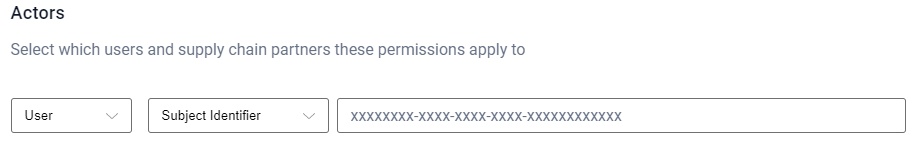
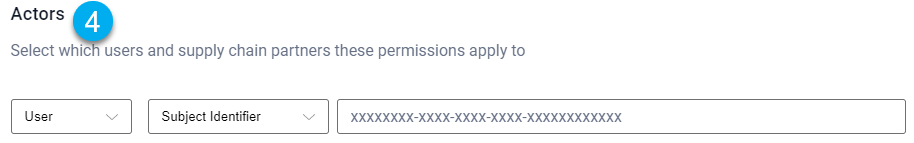
Dev/henry/10036 memberships update (#920)
* re-write IAM docs page

re AB#10036

* update app registrations docs

re AB#10036

* finishing touches for first draft

re AB#10036

* fixup! finishing touches for first draft

* Update content/developers/api-reference/members-api/index.md

* Update content/developers/api-reference/members-api/index.md

* Update content/developers/api-reference/members-api/index.md

* Updated images with numbered steps (1)

---------

diff --git a/content/platform/administration/identity-and-access-management/index.md b/content/platform/administration/identity-and-access-management/index.md
@@ -21,32 +21,37 @@ Each DataTrails Tenancy represents an organization, and each DataTrails account 
 There may be multiple accounts within a Tenancy if there are several members within an organization.
 Additionally, an individual user can be part of multiple Tenancies.
 
-### How do I add users to my organization?
+### Managing Users in your Tenant
 
-DataTrails Invites make it easy to add users to your tenancy.
+You can manage the users in your tenant from the 'Users' tab on the 'Settings' page (accessed from
+the sidebar.)
 
-As an [administrator](/platform/overview/core-concepts/#tenancies), create an invite and send it to the email address of the user you wish to add.
+{{< img src="Settings.png" alt="Rectangle" caption="<em>Select 'Settings > Users'</em>" class="border-0" >}}
 
-When the invitee signs up for their DataTrails account using the invited email address, they will be automatically added to your Tenancy.
+Here you'll find two panels:
+- Manage Users: 
+  - Manage the roles of existing users
+  - Deactivate users who should no longer have access
+  - Re-activate users to grant them access again
+- Manage Invites:
+  - Invite new users to your tenant via email
+  - Delete invites you no longer want to be redeemed
 
-{{< tabs name="invite_user_IAM" >}}
-{{{< tab name="UI" >}}
-On the Sidebar, select `Settings`.
-{{< img src="Settings.png" alt="Rectangle" caption="<em>Select 'Settings'</em>" class="border-0" >}}
+Lets walk through those functions now!
 
-Choose the `USERS` tab, then click `INVITE NEW USER`.
-{{< img src="InviteButton.png" alt="Rectangle" caption="<em>Invite New User</em>" class="border-0" >}}
+#### How do I add users to my organization?
+You add users to your organization by inviting them via email. This is only possible for administrators, 
+i.e. users with the 'Owner' role. Click the 'Invite User' button to open
+the invite window. Here you can enter the email address of the invitee, and if desired, customise
+a message to be shown in the email.
 
-Fill in the desired email and custom message. To finish, select `SEND INVITE`.
-{{< img src="InviteForm.png" alt="Rectangle" caption="<em>Enter Desired Details</em>" class="border-0" >}}
+{{< img src="InviteUser.png" alt="Rectangle" caption="<em>Send an Invite</em>" class="border-0" >}}
 
-{{< /tab >}}
-{{< tab name="YAML" >}}
-This action is not yet available in the YAML Runner. Check out our UI or curl command options!
-{{< /tab >}}
-{{< tab name="CURL" >}}
-Fill in your desired details and run the command to send the invite.
+Once the user recieves and redeems this email (using the email address to which it was sent) they
+will show up in this list and can be managed.
 
+{{< note >}}
+**Note:** Inviting users can be accomplished with the REST API too:
 ```bash
 curl -v -X POST \
     -H "@$HOME/.datatrails/bearer-token.txt" \
@@ -55,9 +60,41 @@ curl -v -X POST \
     "https://app.datatrails.ai/archivist/iam/v1/invites"
 ```
 
-See instructions for [creating your `BEARER_TOKEN_FILE`](/developers/developer-patterns/getting-access-tokens-using-app-registrations/) here.
-{{< /tab >}}
-{{< /tabs >}}
+See instructions for [creating your `BEARER_TOKEN_FILE`](/developers/developer-patterns/getting-access-tokens-using-app-registrations/).
+{{< /note >}}
+
+#### How do I delete an outstanding invite?
+Once accepted by an invitee, invites are automatically deleted. However, if you wish to delete an 
+outstanding invite, follow these steps:
+
+1. Click the trash icon in the row of the invite you wish to delete
+{{< img src="ManageInvites.png" alt="Rectangle" caption="<em>Managing invites</em>" class="border-0" >}}
+2. Confirm that you want to delete the invite in question
+{{< img src="DeleteInvite.png" alt="Rectangle" caption="<em>Deleting an invite</em>" class="border-0" >}}
+
+#### How do I modify a user's access to my tenant?
+There are two ways to modify a user's access to your tenant: Modify their roles or wether they are
+active. You can modify a user by clicking their row in the 'Manage Users' table.
+
+Note:
+- You cannot deactivate or demote yourself
+- In order to manage deactivated users, tick the 'Show Deactivated' checkbox in the top-right
+
+1. Click the user's row in the table
+2. The following pop-up will appear
+{{< img src="ManageUser.png" alt="Rectangle" caption="<em>Managing a user</em>" class="border-0" >}}
+3. To deactivate the user, uncheck the 'Active' checkbox. This will prevent this user
+   from any subsequent logins into the system.
+   {{< note >}}
+   **Note:** De-activating a user removes all roles
+   {{< /note >}}
+4. To give this user the 'Owner' role, check the 'Owner' checkbox. This role makes the user an 
+   administrator, giving them the ability to perform any action within the system and see all data.
+
+To re-activate a user, you'll need to check the 'Show Deactivated' checkbox in the top-right corner
+and then follow the same steps as for deactivating a user, but checking the 'Active' checkbox.
+{{< img src="ManageDeactivatedUsers.png" alt="Rectangle" caption="<em>Managing all users</em>" class="border-0" >}}
+
 
 ### Can I name my tenancy?
 
@@ -65,12 +102,9 @@ See instructions for [creating your `BEARER_TOKEN_FILE`](/developers/developer-p
 
 There are two ways to name your DataTrails Tenancy. The first way is to add a `Tenant Display Name`. This name will be displayed only within your own Tenancy, and will not be visible to outside organizations. The display name makes it easy to identify which Tenancy you're currently working in and to switch between Tenancies if you are part of multiple Tenancies.
 
-To set your `Tenant Display Name`:
-
-1. On the Sidebar, select `Settings`
-{{< img src="Settings.png" alt="Rectangle" caption="<em>Select 'Settings'</em>" class="border-0" >}}
-1. Add your desired name, then click `CHANGE DISPLAY NAME`
-{{< img src="TenantDisplay.png" alt="Rectangle" caption="<em>Change Display Name</em>" class="border-0" >}}
+To set your `Tenant Display Name`, navigate to 'Settings' from the sidebar and ensure you're on the 
+'General' tab. Add your desired name, then click `Change Display Name`.
+{{< img src="TenantName.png" alt="Rectangle" caption="<em>Change Display Name</em>" class="border-0" >}}
 
 #### Verified Domain
 

diff --git a/content/developers/developer-patterns/getting-access-tokens-using-app-registrations/index.md b/content/developers/developer-patterns/getting-access-tokens-using-app-registrations/index.md
@@ -16,9 +16,12 @@ aliases:
   - /docs/rkvst-basics/getting-access-tokens-using-app-registrations/
 ---
 
-Non-interactive access to the DataTrails platform is managed by creating `Integrations` with either a Custom Integration or one of the built-in Integrations. This is done using either the `Settings` or `Integrations` menus in the DataTrails UI or by using the App Registrations API directly.
+Non-interactive access to the DataTrails platform is managed by creating `Integrations` with either a Custom Integration or one of the built-in Integrations. This is done from the `Integrations` page in the DataTrails UI (reachable
+from the `Settings` page or the `Integrations` shortcut in the sidebar.) You can also do this via 
+the App Registrations REST API.
+
 {{< note >}}
-**Note:** App Registration is the old name for a Custom Integration.
+**Note:** App Registration is the internal name for a Custom Integration.
 {{< /note >}}
 
 `Custom Integrations` have a `CLIENT_ID` and a `SECRET`, these are used to authenticate with DataTrails IAM endpoints using [JSON Web Tokens](https://jwt.io/introduction/) (JWT).
@@ -37,7 +40,7 @@ The high level steps are:
 If you have already saved a `CLIENT_ID` and a `SECRET`, with the correct [permissions applied](#grant-permissions-to-custom-integration), skip to [Getting a Token With the Custom Integration](#getting-a-token-with-the-custom-integration)
 
 {{< note >}}
-**Note:** Creating App Registrations requires Tenancy **Administrator** privileges.  
+**Note:** Creating App Registrations requires **Owner** privileges.  
 If `Settings` or `Integrations` does not appear in the navigation, see your DataTrails Administrator for access.
 {{< /note >}}
 
@@ -45,10 +48,10 @@ If `Settings` or `Integrations` does not appear in the navigation, see your Data
 
 1. As an Administrator, open the <a href="https://app.datatrails.ai/" target="_blank">DataTrails App</a>
 1. Navigate to `Integrations` on the sidebar
-1. This opens `Settings` with the `Integrations` tab automatically selected
-  {{< img src="IntegrationsTab.png" alt="Rectangle" caption="<em>Navigate to Settings, then Integration</em>" class="border-0" >}}
+1. This opens the `Integrations` tab
 1. Click the `Custom` box to create a Custom Integration
-1. Enter any `Display Name` you'd like
+  {{< img src="IntegrationsTab.png" alt="Rectangle" caption="<em>Navigate to Settings, then Integration</em>" class="border-0" >}}
+1. Enter a `Display Name` to help you identify this Custom Integration in future
   {{< img src="Confirm.png" alt="Rectangle" caption="<em>Completed Web Registration</em>" class="border-0" >}}
   {{< note >}}
   **Note:** Optionally add any `Custom claims` at this step by clicking the `+ Add` button.<br>In this context, claims are pieces of information that are asserted in a JSON Web Token (JWT). *Registered* claims are name/value pairs that are defined by the JWT standard, *Custom* claims are not defined and can have any name/value combination.
@@ -57,7 +60,8 @@ If `Settings` or `Integrations` does not appear in the navigation, see your Data
   
   See [here](https://auth0.com/docs/security/tokens/json-web-tokens/json-web-token-claims#reserved-claims) for more information on JWT Claims
   {{< /note >}}  
-
+1. If this Custom Integration should have administrator privileges, assign it the `Owner` role by 
+   checking that option. If you do this, ensure the client credentials are securely protected.
 1. Once complete, click `Confirm` to complete the custom integration
 1. You will then be presented with the `CLIENT_ID` and `SECRET` required by the archivist token endpoint
 {{< img src="RecordClientIDandSecret.png" alt="Rectangle" caption="<em>Record your Client ID and Secret</em>" class="border-0" >}}

diff --git a/content/developers/api-reference/members-api/index.md b/content/developers/api-reference/members-api/index.md
@@ -1,0 +1,86 @@
+---
+title: "Members API"
+description: "Members API Reference"
+lead: "Members API Reference"
+date: 2021-06-09T13:29:57+01:00
+lastmod: 2021-06-09T13:29:57+01:00
+draft: false
+images: []
+menu: 
+  developers:
+    parent: "api-reference"
+weight: 114
+toc: true
+aliases: 
+  - /docs/api-reference/members-api/
+---
+{{< note >}}
+**Note:** This page is primarily intended for developers who will be writing applications that will use DataTrails for provenance. 
+If you are looking for a simple way to test our API you might prefer our [Postman collection](https://www.postman.com/datatrails-inc/workspace/datatrails-public/overview), the [YAML runner](/developers/yaml-reference/story-runner-components/) or the [Developers](https://app.datatrails.ai) section of the web UI. 
+
+Additional YAML examples can be found in the articles in the [Overview](/platform/overview/introduction/) section.
+{{< /note >}}
+
+## Members API Examples
+
+Create the [bearer_token](/developers/developer-patterns/getting-access-tokens-using-app-registrations) and store in a file in a secure local directory with 0600 permissions.
+
+### Listing members of your tenant
+
+To fetch the list of members, simply `GET` the `/members` resource
+
+```bash
+curl -v -X GET \
+     -H "@$HOME/.datatrails/bearer-token.txt" \
+     https://app.datatrails.ai/archivist/iam/v1/members
+```
+
+By default this doesn't show members that are deactivated. You can filter the list to include 
+deactivated users:
+
+```bash
+curl -v -X GET \
+     -H "@$HOME/.datatrails/bearer-token.txt" \
+     https://app.datatrails.ai/archivist/iam/v1/members?member_state=MEMBER_STATE_BOTH
+```
+
+### Promoting a user to 'OWNER' role in a tenancy
+
+You can manage the roles of a user (i.e. promoting or demoting them with the 'OWNER' role) by
+PATCHing their membership record. 
+With the identity of the tenant member record corresponding to the user in question, submit this request
+to set their roles to a list containing only 'OWNER'. To demote the member, simply send an empty
+list.
+
+```bash
+curl -v -X PATCH \
+    -H "@$HOME/.datatrails/bearer-token.txt" \
+    -H "Content-type: application/json" \
+    -d "{'roles': ['OWNER']}" \
+    https://app.datatrails.ai/archivist/iam/v1/{member_identity}
+```
+
+### Deactivating a member of your tenant
+
+When a user should no longer have access to your tenant, you can deactivate them programatically 
+using the following API call:
+
+```bash
+curl -v -X POST \
+    -H "@$HOME/.datatrails/bearer-token.txt" \
+    -H "Content-type: application/json" \
+    https://app.datatrails.ai/archivist/iam/v1/{member_identity}:deactivate
+```
+
+and then re-activate them like so:
+
+```bash
+curl -v -X POST \
+    -H "@$HOME/.datatrails/bearer-token.txt" \
+    -H "Content-type: application/json" \
+    https://app.datatrails.ai/archivist/iam/v1/{member_identity}:activate
+```
+
+## Members OpenAPI Docs
+
+Coming soon ...

diff --git a/content/developers/api-reference/tenancies-api/index.md b/content/developers/api-reference/tenancies-api/index.md
@@ -21,52 +21,8 @@ If you are looking for a simple way to test our API you might prefer our [Postma
 Additional YAML examples can be found in the articles in the [Overview](/platform/overview/introduction/) section.
 {{< /note >}}
 
-## Tenancies API Examples
-
-Create the [bearer_token](/developers/developer-patterns/getting-access-tokens-using-app-registrations) and store in a file in a secure local directory with 0600 permissions.
-
-### Retrieve the Current List of Administrators
-
-To fetch the list of Administrators, simply `GET` the `tenancies/root_principals` resource:
-
-```bash
-curl -v -X GET \
-     -H "@$HOME/.datatrails/bearer-token.txt" \
-     https://app.datatrails.ai/archivist/v1/tenancies/root_principals
-```
-
-### Update the List of Administrators
-
-Define the update parameters and store in `/path/to/jsonfile`:
-
-```json
-{
-   "administrators": [
-       {
-           "issuer": "https://login.microsoftonline.com/5c129635-5858-4fe3-9bef-444f6c7ee1cf/v2.0",
-           "subject": "58589bef-4fe3-9a3b-23df-8527bc45e1cf",
-           "display_name": "Jane Smith",
-           "email":  "jane.smith@synsation.org"
-       },
-       {
-           "issuer": "https://login.microsoftonline.com/5c129635-5858-4fe3-9bef-444f6c7ee1cf/v2.0",
-           "subject": "27bc5b4f-9a3b-4fe3-23df-e1c7bc45e1cf",
-           "display_name": "Nate Rogers",
-           "email":  "nate.rogers@synsation.org"
-       }
-    ]
-}
-```
-
-Update the Administrators by PATCHing the `tenancies/root_principals` resource:
-
-```bash
-curl -v -X PATCH \
-    -H "@$HOME/.datatrails/bearer-token.txt" \
-    -H "Content-type: application/json" \
-    -d "@/path/to/jsonfile" \
-    https://app.datatrails.ai/archivist/v1/tenancies/root_principals
-```
+The tenancies API is used to manage the configuration of your tenant. This is typically done from 
+within the product, but its possible to retrieve and modify some configs programatically.
 
 ## Tenancies OpenAPI Docs
 

diff --git a/content/developers/api-reference/_index.md b/content/developers/api-reference/_index.md
@@ -24,6 +24,7 @@ aliases:
       <a href="/developers/api-reference/iam-policies-api/">IAM Policies API &rarr;</a><br>
       <a href="/developers/api-reference/iam-subjects-api/">IAM Subjects API &rarr;</a><br>
       <a href="/developers/api-reference/locations-api/">Locations API &rarr;</a><br>
+      <a href="/developers/api-reference/members-api/">Members API &rarr;</a></p>
       <a href="/developers/api-reference/public-assets-api/">Public Assets API &rarr;</a><br>
       <a href="/developers/api-reference/tenancies-api/">Tenancies API &rarr;</a><br>
       <a href="/developers/api-reference/caps-api/">Tenancy Caps API &rarr;</a></p>

diff --git a/content/developers/api-reference/caps-api/index.md b/content/developers/api-reference/caps-api/index.md
@@ -51,7 +51,7 @@ These are the available values for "**?service=**":
 * blobs
 * compliance_policies
 * locations
-* tenancies/users
+* members
 
 
 ## Caps OpenAPI Docs
